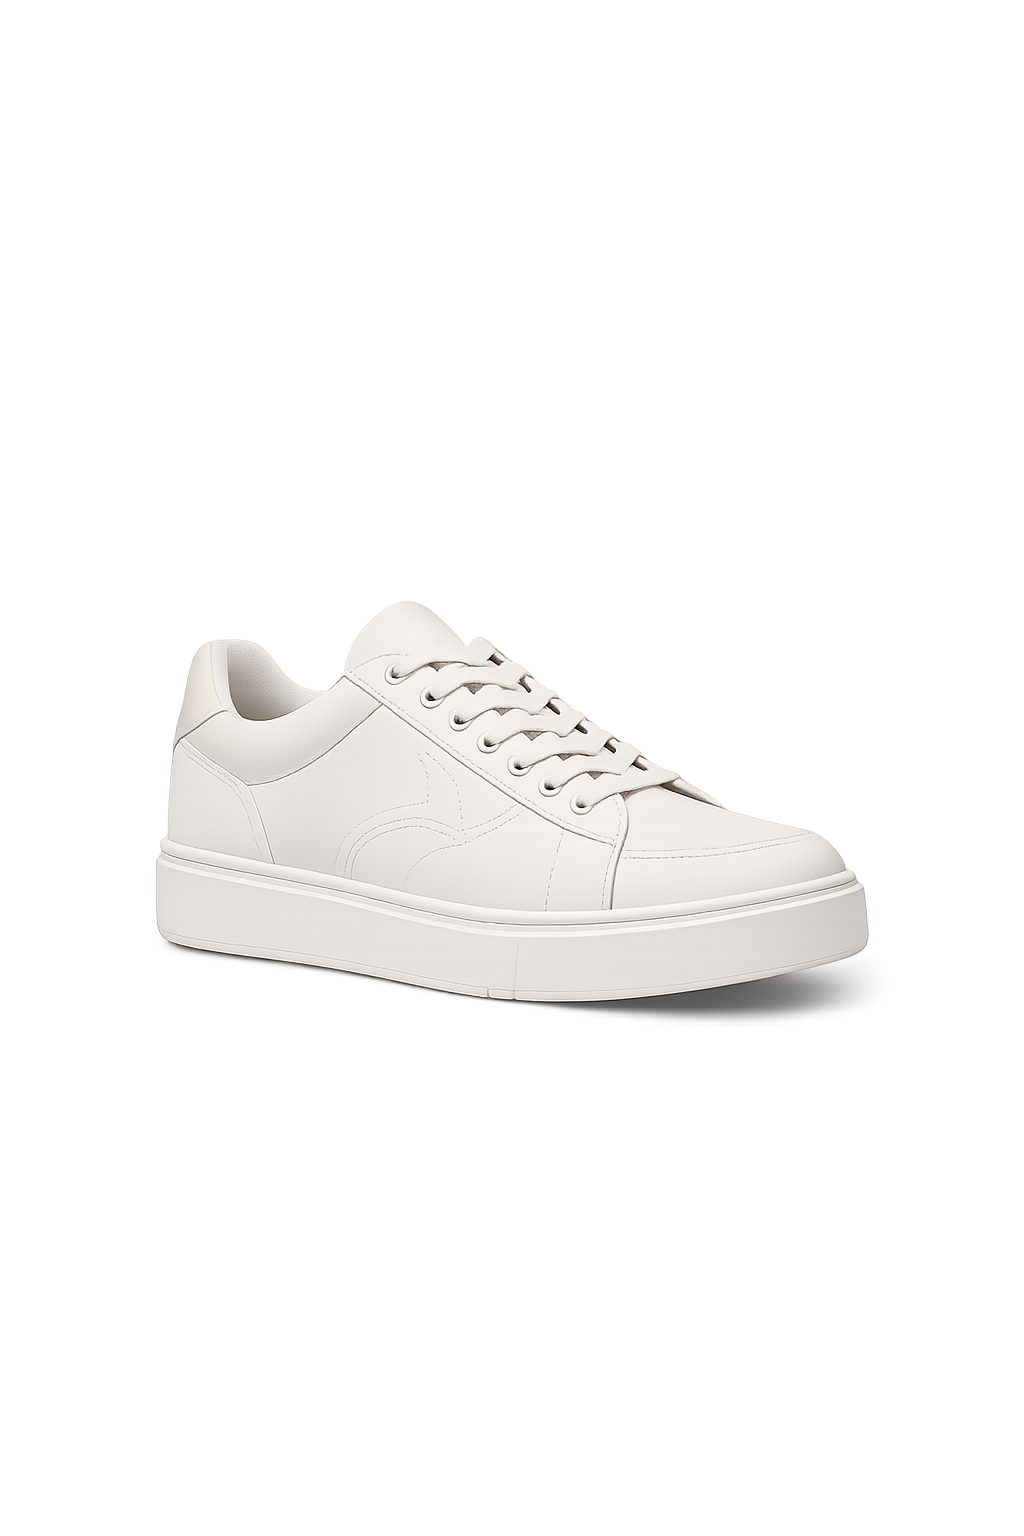
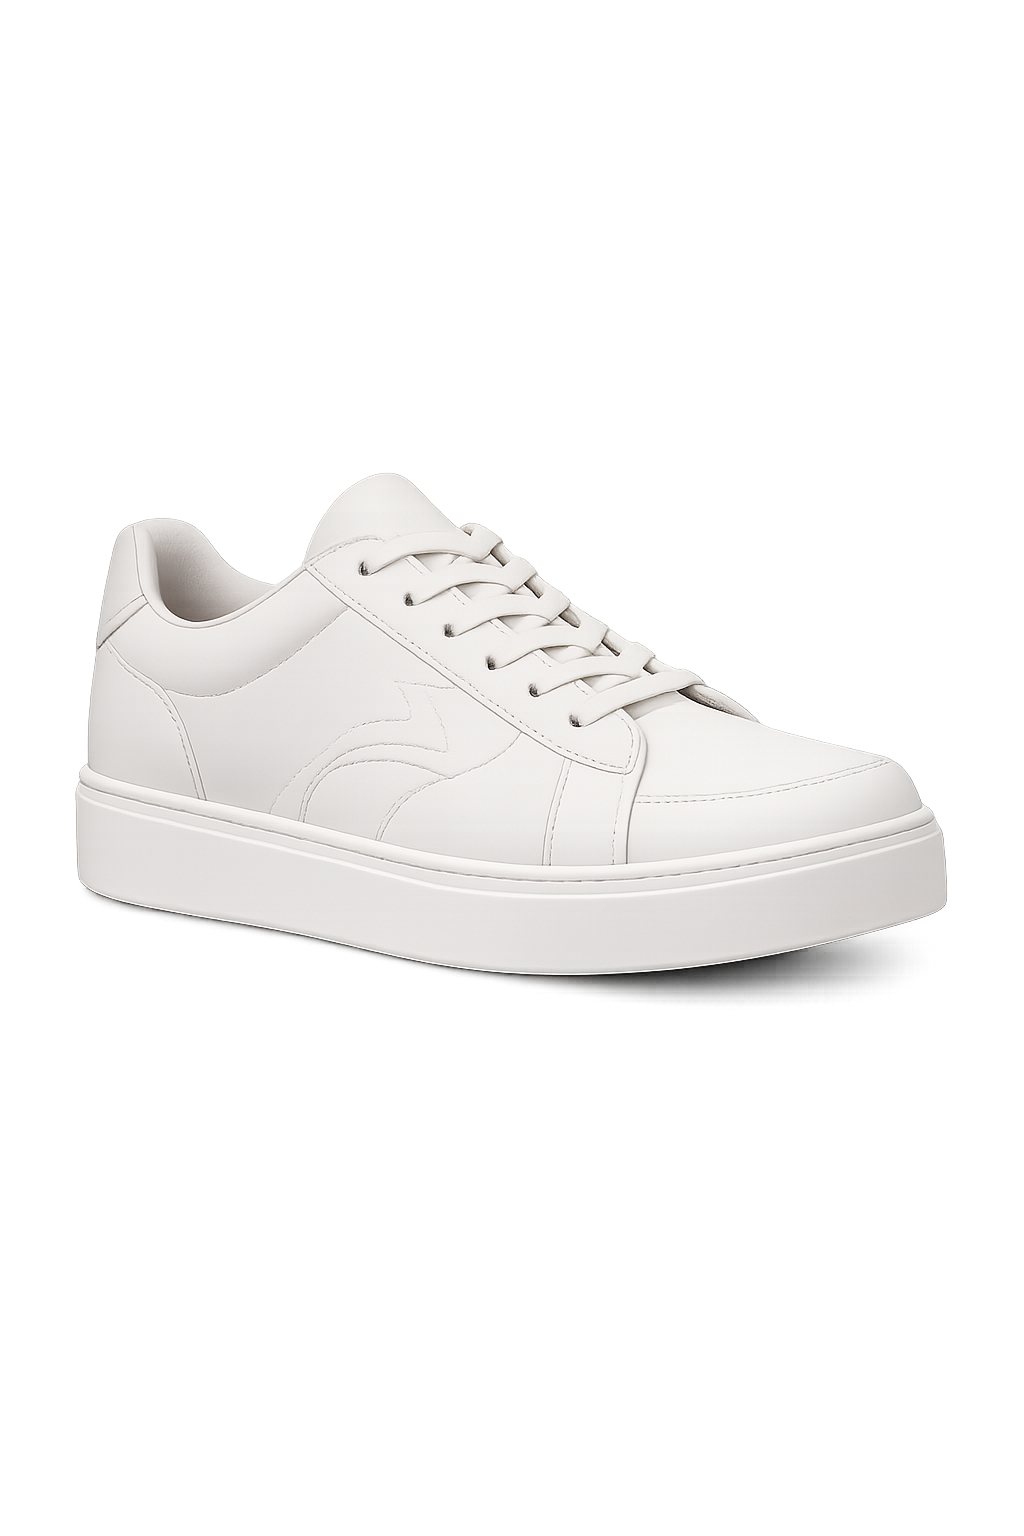
style: deixei mais atrativo e adicionei mais 4 produtos no featured-products

Changed region(s): [[0.0625, 0.3125, 0.9375, 0.6875]]

diff --git a/index.html b/index.html
@@ -294,6 +294,86 @@
                             </p>
                         </div>
                     </article>
+
+                    <article class="product-card">
+                        <button class="favorite-button" aria-label="Adicionar aos favoritos">
+                            <img src="assets/icons/fatured-products/heart.svg" alt="">
+                        </button>
+
+                        <img src="assets/images/featured-products/tennis.png"
+                            alt="Tênis Branco"
+                            class="product-image">
+
+                        <div class="product-info">
+                            <h3 class="product-name">Tênis Branco</h3>
+                            <p class="product-category">Calçado</p>
+
+                            <p class="product-price">R$ 249,90</p>
+                            <p class="product-installments">
+                                ou 8x de R$ 31,23
+                            </p>
+                        </div>
+                    </article>
+
+                    <article class="product-card">
+                        <button class="favorite-button" aria-label="Adicionar aos favoritos">
+                            <img src="assets/icons/fatured-products/heart.svg" alt="">
+                        </button>
+
+                        <img src="assets/images/featured-products/headphones.png"
+                            alt="Fone bluetooth"
+                            class="product-image">
+
+                        <div class="product-info">
+                            <h3 class="product-name">Fone bluetooth</h3>
+                            <p class="product-category">Eletrônicos</p>
+
+                            <p class="product-price">R$ 349,90</p>
+                            <p class="product-installments">
+                                ou 10x de R$ 34,99
+                            </p>
+                        </div>
+                    </article>
+
+                    <article class="product-card">
+                        <button class="favorite-button" aria-label="Adicionar aos favoritos">
+                            <img src="assets/icons/fatured-products/heart.svg" alt="">
+                        </button>
+
+                        <img src="assets/images/featured-products/t-shirt.png"
+                            alt="Camiseta Simples"
+                            class="product-image">
+
+                        <div class="product-info">
+                            <h3 class="product-name">Camiseta Simples</h3>
+                            <p class="product-category">Masculino</p>
+
+                            <p class="product-price">R$ 79,90</p>
+                            <p class="product-installments">
+                                ou 4x de R$ 19,97
+                            </p>
+                        </div>
+                    </article>
+
+                    <article class="product-card">
+                        <button class="favorite-button" aria-label="Adicionar aos favoritos">
+                            <img src="assets/icons/fatured-products/heart.svg" alt="">
+                        </button>
+
+                        <img src="assets/images/featured-products/water-bottle .png"
+                            alt="Garrafa de Água"
+                            class="product-image">
+
+                        <div class="product-info">
+                            <h3 class="product-name">Garrafa de Água</h3>
+                            <p class="product-category">Utilitários</p>
+
+                            <p class="product-price">R$ 89,90</p>
+                            <p class="product-installments">
+                                ou 4x de R$ 22,48
+                            </p>
+                        </div>
+                    </article>
                 </div>
             </section>
 

diff --git a/assets/css/fatured-products/fatured-products.css b/assets/css/fatured-products/fatured-products.css
@@ -37,15 +37,15 @@
 .product-card{
     position: relative;
 
-    width: 180px;
+    width: 200px;
     padding: 0.75rem;
 
     display: flex;
     flex-direction: column;
 
-    background: #e7e7e7;
+    background-color: rgba(216, 207, 196, 0.295);
     border-radius: 12px;
-    box-shadow: 0 2px 10px rgba(0,0,0,.08);
+    
 }
 
 .favorite-button{
@@ -54,8 +54,8 @@
     top:12px;
     right:12px;
 
-    width:32px;
-    height:32px;
+    width:35px;
+    height:35px;
 
     display:flex;
     justify-content:center;
@@ -77,7 +77,9 @@
 
 .products-grid{
     display: flex;
-    gap: 1rem;
+    align-items: center;
+    justify-content: space-around;
+    margin-top: 1rem;
 }
 
 .product-info{
@@ -113,7 +115,7 @@
 }
 
 .product-image{
-    width: 100%;
+    width: 200px;
     height: 180px;
 
     object-fit: contain;